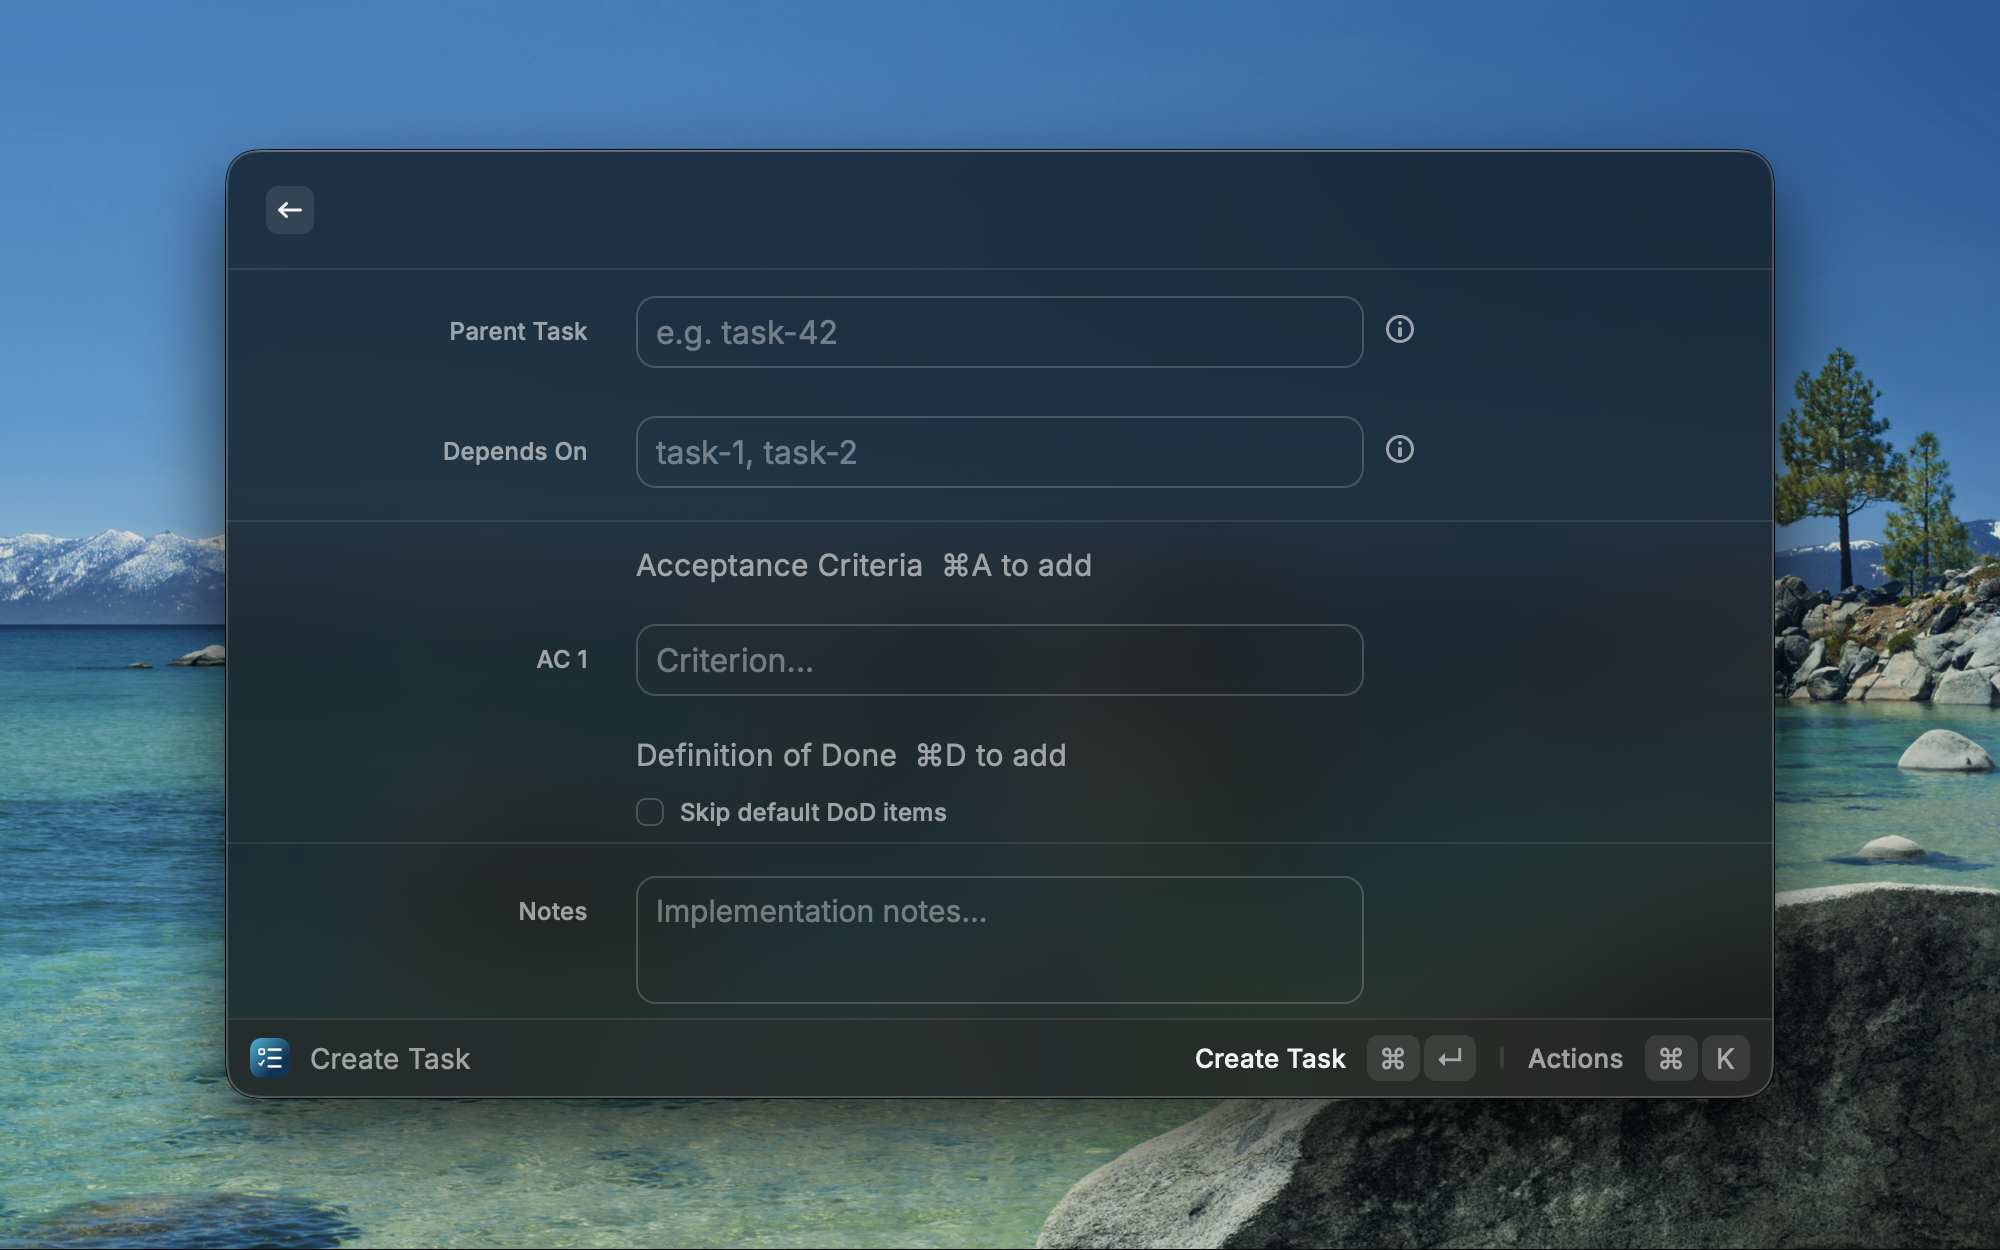
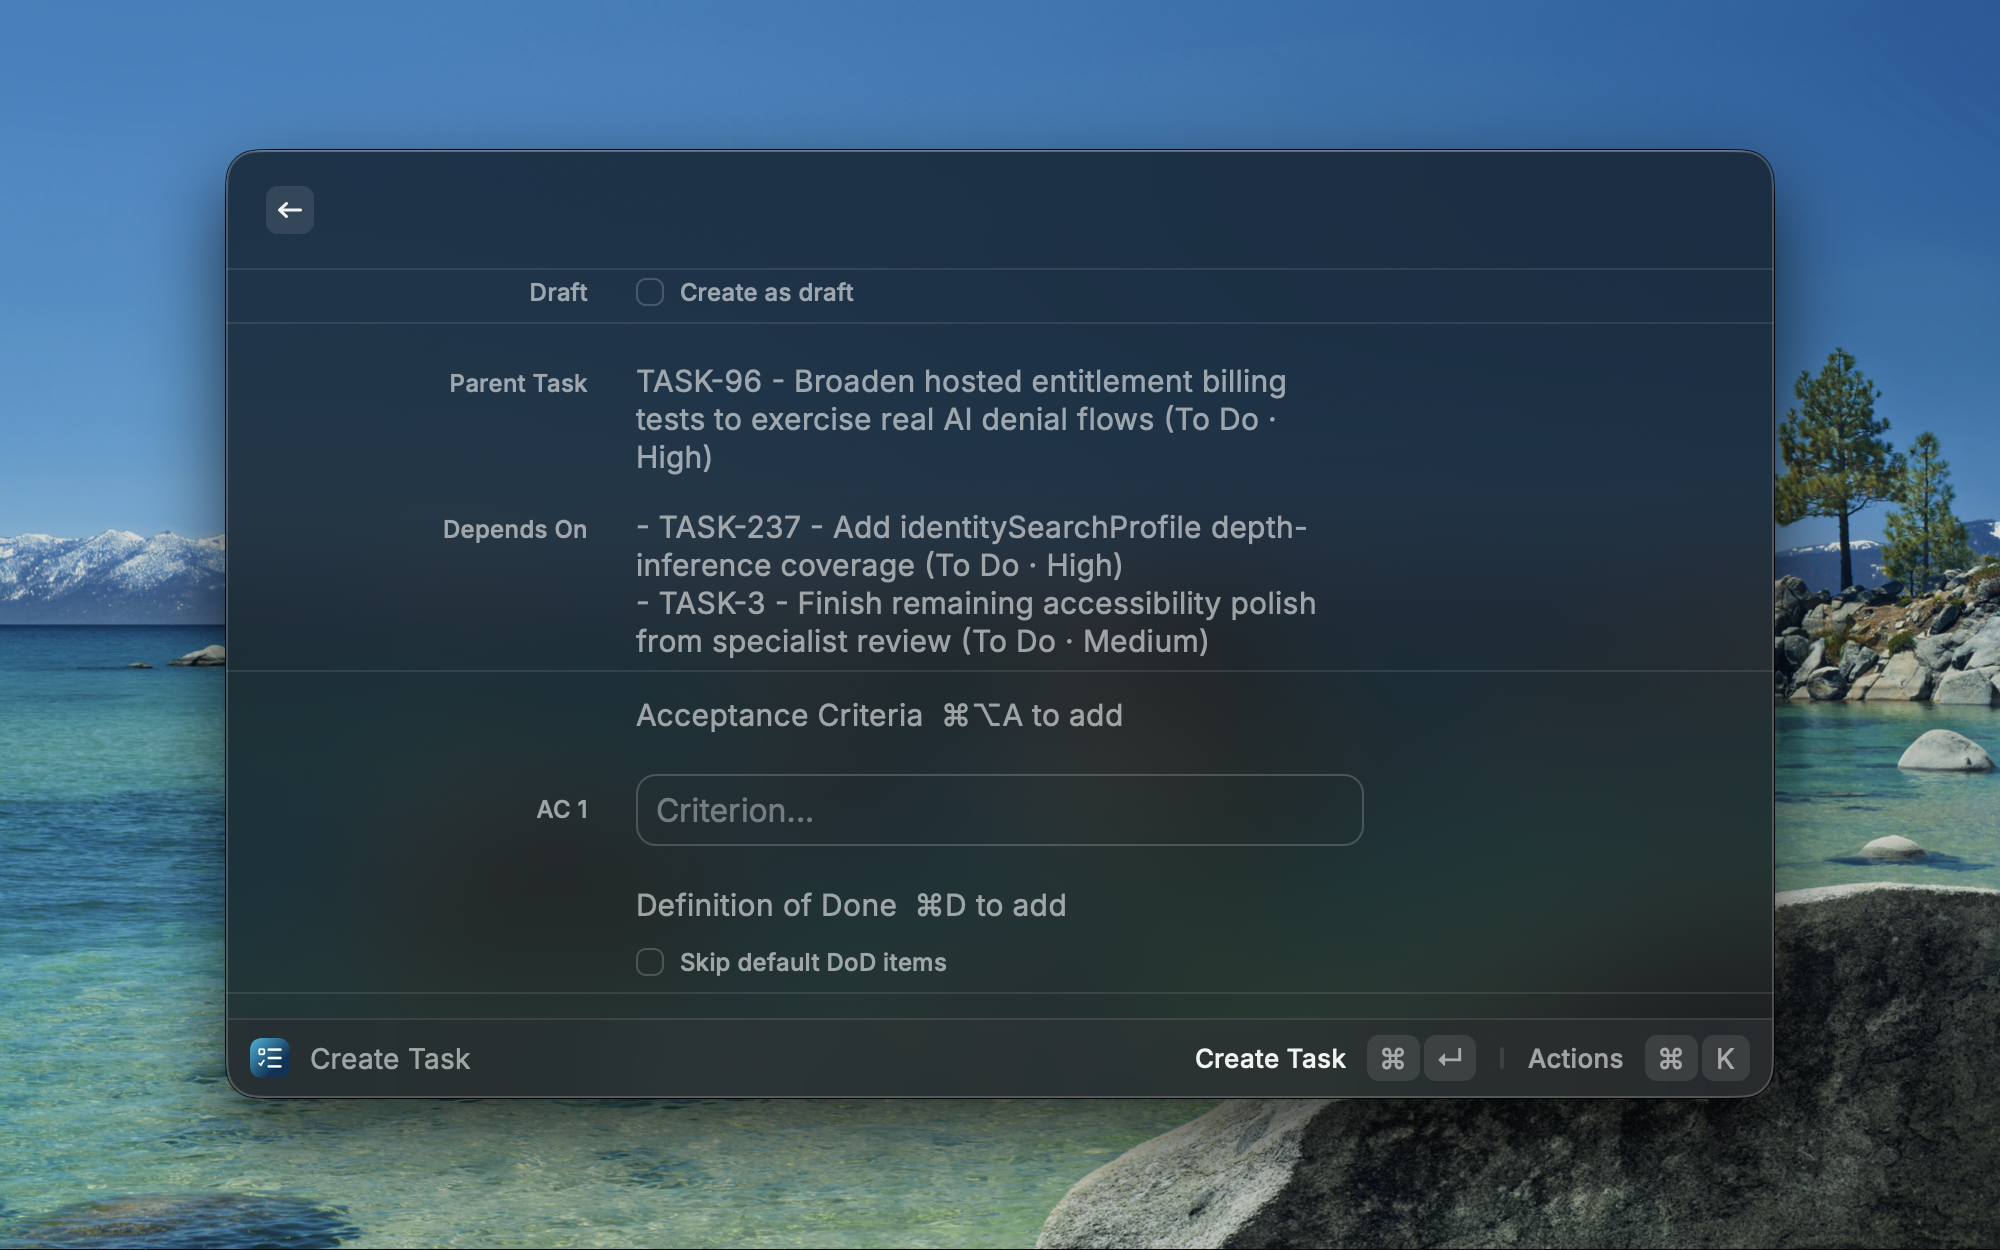
feat(create-task): drive parent and dependency selection through pickers

diff --git a/src/create-task.tsx b/src/create-task.tsx
@@ -20,8 +20,6 @@ interface CreateTaskValues extends Record<string, unknown> {
   labels?: string;
   assignee?: string;
   isDraft?: boolean;
-  parent?: string;
-  dependsOn?: string;
   plan?: string;
   notes?: string;
   finalSummary?: string;
@@ -119,8 +117,6 @@ export default function Command() {
   const [activeProject, setActiveProject, config] = useActiveProject();
   const [parentTask, setParentTask] = useState<BacklogTaskSummary | undefined>();
   const [dependencyTasks, setDependencyTasks] = useState<BacklogTaskSummary[]>([]);
-  const [manualParentId, setManualParentId] = useState("");
-  const [manualDependencyIds, setManualDependencyIds] = useState("");
   const [referenceFiles, setReferenceFiles] = useState<string[]>([]);
   const [documentFiles, setDocumentFiles] = useState<string[]>([]);
 
@@ -131,8 +127,6 @@ export default function Command() {
   useEffect(() => {
     setParentTask(undefined);
     setDependencyTasks([]);
-    setManualParentId("");
-    setManualDependencyIds("");
     setReferenceFiles([]);
     setDocumentFiles([]);
   }, [activeProject]);
@@ -176,23 +170,13 @@ export default function Command() {
     }
 
     // Parent task
-    const parentId = values.parent?.trim() || parentTask?.id;
-    if (parentId) {
-      args.push("--parent", parentId);
+    if (parentTask) {
+      args.push("--parent", parentTask.id);
     }
 
     // Dependencies
-    const dependsOn = Array.from(
-      new Set([
-        ...dependencyTasks.map((task) => task.id),
-        ...(values.dependsOn || "")
-          .split(",")
-          .map((value) => value.trim())
-          .filter(Boolean),
-      ]),
-    );
-    if (dependsOn.length > 0) {
-      args.push("--depends-on", dependsOn.join(","));
+    if (dependencyTasks.length > 0) {
+      args.push("--depends-on", dependencyTasks.map((task) => task.id).join(","));
     }
 
     const plan = (values.plan as string)?.trim();
@@ -275,16 +259,14 @@ export default function Command() {
             <Action.Push
               title={parentTask ? "Change Parent Task" : "Select Parent Task"}
               icon={Icon.List}
+              shortcut={{ modifiers: ["cmd", "opt"], key: "p" }}
               target={
                 <TaskPicker
                   projectDir={activeProject}
                   navigationTitle="Select Parent Task"
                   actionTitle="Use as Parent Task"
                   excludedTaskIds={dependencyTasks.map((task) => task.id)}
-                  onSelect={(task) => {
-                    setParentTask(task);
-                    setManualParentId("");
-                  }}
+                  onSelect={(task) => setParentTask(task)}
                 />
               }
             />
@@ -387,37 +369,22 @@ export default function Command() {
 
       {/* ── Relationships ── */}
       <Form.Description
+        key={`parent-${parentTask?.id ?? "none"}`}
         title="Parent Task"
         text={
-          parentTask ? formatTaskOption(parentTask) : "None selected. Use Select Parent Task from the actions menu."
+          parentTask
+            ? formatTaskOption(parentTask)
+            : "None selected. ⌘⌥P, or use Select Parent Task from the actions menu."
         }
       />
-      <Form.TextField
-        id="parent"
-        title="Parent Task ID"
-        value={manualParentId}
-        onChange={(value) => {
-          setManualParentId(value);
-          if (value.trim()) {
-            setParentTask(undefined);
-          }
-        }}
-        placeholder="Optional manual fallback, e.g. task-42"
-      />
       <Form.Description
+        key={`deps-${dependencyTasks.map((t) => t.id).join(",") || "none"}`}
         title="Depends On"
         text={
           dependencyTasks.length > 0
             ? dependencyTasks.map((task) => `- ${formatTaskOption(task)}`).join("\n")
-            : "None selected. Use Add Dependency from the actions menu."
+            : "None selected. ⌘⇧P, or use Add Dependency from the actions menu."
         }
-      />
-      <Form.TextField
-        id="dependsOn"
-        title="Dependency IDs"
-        value={manualDependencyIds}
-        onChange={setManualDependencyIds}
-        placeholder="Optional manual fallback, e.g. task-1, task-2"
       />
 
       <Form.Separator />
